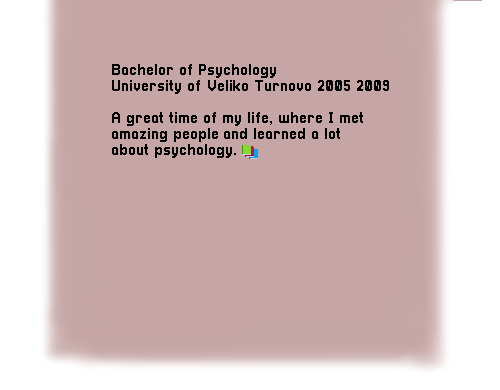
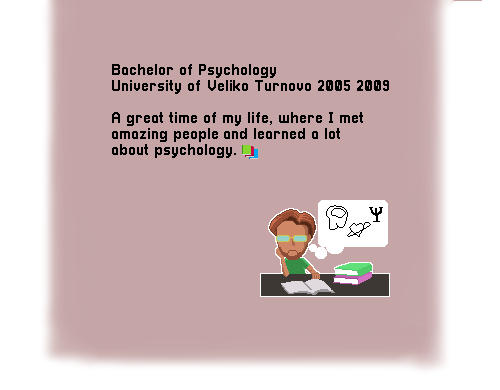
added many things, soon it will be completed

Changed region(s): [[0.51, 0.4923, 0.78, 0.7692]]

diff --git a/src/Handlers/AnimationManager.java b/src/Handlers/AnimationManager.java
@@ -27,6 +27,8 @@ public class AnimationManager {
     Phase left;
     Phase right;
     Sound sound;
+    Sound music;
+    Phase currentlyDrawn;
 
     private boolean tutorialFading = false;
     public Player player;
@@ -42,6 +44,9 @@ public class AnimationManager {
         future = Assets.future;
         past = Assets.past;
         sound = Assets.sound;
+        music = Assets.music;
+        music.setFile();
+        music.loop();
     }
 
 
@@ -64,6 +69,7 @@ public class AnimationManager {
             phRight.picture.y = Config.INIT_MIDPIC_Y;
             phRight.textBox.x = phRight.picture.x + phRight.picture.sprites[0].getWidth() * Config.SCALE + Config.PIC_TEXTBOX_OFFSET * Config.SCALE;
             phRight.textBox.y = phRight.picture.y;
+
             //add x and y
         }
     }
@@ -91,13 +97,13 @@ public class AnimationManager {
         }
     }
 
-    public void playSF(Boolean loop){
+    public void playSound(Boolean loop){
         sound.setFile();
         if(!loop) sound.play();
         else sound.loop();
     }
 
-    public void stopSF(){
+    public void stopSound(){
         sound.stop();
     }
 
@@ -106,7 +112,7 @@ public class AnimationManager {
         if (player.state.name.equals("WALKING")) {
 
             if((sound.clip == null) || (!sound.clip.isActive())){
-                playSF( true);
+                playSound( true);
             }
 
 
@@ -145,7 +151,15 @@ public class AnimationManager {
             }
         } else if(player.state.name.equals("SITTING")){
             if(sound.clip.isRunning()){
-                stopSF();
+                stopSound();
+            }
+        }
+
+        if(!drawn.isEmpty()) {
+            if ((drawn.peekFirst().picture.x < Config.LEFT_BORDER_VISIBILITY) && (player.movedRight)) {
+                hideLeftAddRight();
+            } else if ((drawn.peekLast().picture.x > Config.RIGHT_BORDER_VISIBILITY) && (player.movedLeft)) {
+                hideRightAddLeft();
             }
         }
     }
@@ -153,10 +167,6 @@ public class AnimationManager {
 
     // run all animatable objects if they are active:
     public void draw(Graphics2D g2){
-
-        if (drawn.size() == 1){
-            System.out.println("Ouchie");
-        }
 
         // draw the BG
         if (backgroundImage != null){
@@ -181,14 +191,11 @@ public class AnimationManager {
                 backgroundAnimation.x = backgroundAnimation.x + width * Config.SCALE;
             }
 
-            //System.out.println("BG middle X is " + backgroundAnimation.x );
-            //System.out.println("Player X is " + player.x);
-
         } else {
             System.out.println("Warning: background is null, cannot draw.");
         }
 
-        // draw the rest
+        // draw the "tutorial"
 
         if (tutorial.active) {
             if ((player.x > Config.LEFT_BOUNDARY && player.x < Config.RIGHT_BOUNDARY) && !tutorialFading)
@@ -201,7 +208,8 @@ public class AnimationManager {
             tutorial.updateFrame();
         }
 
-        Phase currentlyDrawn;
+        // Draw the phases
+
         if(drawn.isEmpty()){                // add the first phase
             currentlyDrawn = future.pollFirst();
             if(currentlyDrawn != null) {
@@ -216,9 +224,8 @@ public class AnimationManager {
         if(!drawn.isEmpty()) {
 
             Phase phaseToDraw1 = drawn.peekFirst();
+
             int offset = phaseToDraw1.picture.x + phaseToDraw1.picture.sprites[0].getWidth() * Config.SCALE + Config.PIC_TEXTBOX_OFFSET + phaseToDraw1.textBox.sprites[0].getWidth() * Config.SCALE + Config.PIC_AREA_OFFSET;
-
-
 
             phaseToDraw1.picture.draw(g2, phaseToDraw1.picture.x, phaseToDraw1.picture.y, phaseToDraw1.picture.sprites[0].getWidth(), phaseToDraw1.picture.sprites[0].getHeight());
             phaseToDraw1.picture.updateFrame(); // in case the animation is dynamic this will animate it
@@ -237,24 +244,17 @@ public class AnimationManager {
 
             if (drawn.size() == 2){
 
-                if((drawn.peekFirst().picture.x < Config.LEFT_BORDER_VISIBILITY)&& (player.movedRight)){
-                    hideLeftAddRight();
-                } else if((drawn.peekLast().picture.x > Config.RIGHT_BORDER_VISIBILITY) && (player.movedLeft)) {
-                    hideRightAddLeft();
-                }
-
                 Phase phaseToDraw2 = drawn.peekLast();
                 if (phaseToDraw2 != null) {
-                    phaseToDraw1 = drawn.peekFirst();
+                    //phaseToDraw1 = drawn.peekFirst();
 
                     phaseToDraw2.picture.draw(g2, phaseToDraw2.picture.x, phaseToDraw2.picture.y, phaseToDraw2.picture.sprites[0].getWidth(), phaseToDraw2.picture.sprites[0].getHeight());
                     phaseToDraw2.picture.updateFrame(); // in case the animation is dynamic this will animate it
                     phaseToDraw2.textBox.draw(g2, phaseToDraw2.textBox.x + Config.PIC_TEXTBOX_OFFSET, phaseToDraw2.textBox.y, phaseToDraw2.textBox.sprites[0].getWidth(), phaseToDraw2.textBox.sprites[0].getHeight());
 
-                    //System.out.println("PIC 1 x is: " + phaseToDraw1.picture.x);
+
                 }
             }
-
         }
     }
 

diff --git a/src/Handlers/Assets.java b/src/Handlers/Assets.java
@@ -4,6 +4,7 @@ import animations.Animation;
 import animations.Phase;
 import main.Config;
 import main.Sound;
+import main.UI;
 
 import javax.imageio.ImageIO;
 import java.awt.image.BufferedImage;
@@ -18,18 +19,31 @@ public class Assets{
     public static BufferedImage backgroundImage;
     public static Animation backgroundAnimation;
     public static BufferedImage[] tutorialSprites;
+
     public static Animation tutorial;
-    public static Phase[] phases = new Phase[8];
+    public static Phase[] phases = new Phase[9];
     public static Deque<Phase> future = new ArrayDeque<>();
     public static Deque<Phase> past = new ArrayDeque<>();
+
     public static Sound sound;
     public static Sound music;
+
+    public static UI menu;
+    public static BufferedImage[] menuSprites;
 
     public static void load(float speed) {
 
         tutorialSprites = new BufferedImage[2];
+        menuSprites = new BufferedImage[2];
 
         try {
+
+                BufferedImage UI1 = ImageIO.read(Objects.requireNonNull(Assets.class.getResourceAsStream("/UI/UI1.png")));
+                BufferedImage UI2 = ImageIO.read(Objects.requireNonNull(Assets.class.getResourceAsStream("/UI/UI2.png")));
+                menuSprites[0] = UI1;
+                menuSprites[1] = UI2;
+                menu = new UI(menuSprites);
+
                 backgroundImage = ImageIO.read(Objects.requireNonNull(Assets.class.getResourceAsStream("/background/test-bg.png")));
 
                 backgroundAnimation = new Animation(backgroundImage, Config.INIT_BG_X, Config.INIT_BG_Y, speed);
@@ -37,6 +51,8 @@ public class Assets{
                 tutorialSprites[0] = ImageIO.read(Objects.requireNonNull(Assets.class.getResourceAsStream("/buttons/dir_buttons1.png")));
                 tutorialSprites[1] = ImageIO.read(Objects.requireNonNull(Assets.class.getResourceAsStream("/buttons/dir_buttons2.png")));
                 tutorial = new Animation(tutorialSprites, Config.tutorialX, Config.tutorialY, 0.13F); // these coordinates are always relative to the window
+
+
 
                 for(int i = 0; i < phases.length; i++){
                     Animation pictureAnimation;

diff --git a/src/animations/Animatable.java b/src/animations/Animatable.java
@@ -7,8 +7,6 @@ import java.awt.image.BufferedImage;
 
 abstract public  class Animatable {
 
-    public Animation[] frames;
-
     public int x;
     public int y;
     public float speed;
@@ -60,8 +58,6 @@ abstract public  class Animatable {
         BufferedImage image = sprites[currentFrame-1];
         int scale = Config.SCALE;
 
-
-
         Entity.Direction dir = Entity.Direction.RIGHT;
 
         if (image != null) {
@@ -71,15 +67,6 @@ abstract public  class Animatable {
         }
     }
 
-
-    // draw a given image only, with a given scale
-    public void draw(Graphics2D g2, BufferedImage image, int x, int y, int customScale){
-        if (image != null){
-            g2.drawImage(image, x + image.getWidth()* customScale , y, -image.getWidth() * customScale, image.getHeight() * customScale, null);
-        } else {
-            System.out.println("Warning: image is null, cannot draw.");
-        }
-    }
 
     //draw with fade effect
     public void draw(Graphics2D g2, int x, int y, int width, int height, boolean fadeOut){

diff --git a/src/Handlers/KeyHandler.java b/src/Handlers/KeyHandler.java
@@ -6,11 +6,14 @@ import java.awt.event.KeyListener;
 public class KeyHandler implements KeyListener {
 
     public boolean upPressed, downPressed, leftPressed, rightPressed;
+    public boolean EnterPressed;
 
     @Override
     public void keyTyped(KeyEvent e) {
 
     }
+
+
 
     @Override
     public void keyPressed(KeyEvent e) {
@@ -29,6 +32,9 @@ public class KeyHandler implements KeyListener {
         if((code == KeyEvent.VK_D) || (code == KeyEvent.VK_RIGHT)){
             rightPressed = true;
         }
+
+        //TODO
+        //if((code == KeyEvent.VK_ENTER) && )
     }
 
     @Override

diff --git a/src/main/GamePanel.java b/src/main/GamePanel.java
@@ -22,6 +22,7 @@ public class GamePanel extends JPanel implements Runnable {
     Thread gameThread;
     Player player = new Player(this, keyH);
     AnimationManager anManager = new AnimationManager(this, player);
+    UI menu;
 
 
     public GamePanel() {
@@ -30,6 +31,7 @@ public class GamePanel extends JPanel implements Runnable {
         this.setDoubleBuffered(true);
         this.addKeyListener(keyH);
         this.setFocusable(true);
+        this.menu = Assets.menu;
     }
 
     public void startGameThread() {

diff --git a/src/main/UI.java b/src/main/UI.java
@@ -1,0 +1,25 @@
+package main;
+
+
+import Handlers.Assets;
+import animations.Animatable;
+
+import java.awt.image.BufferedImage;
+
+public class UI extends Animatable {
+
+    Boolean selected = false;
+    public Sound selectSound = Assets.sound;
+    public Sound changeValueSound = Assets.sound;
+
+    public UI(BufferedImage[] sprites){
+        this.sprites = sprites;
+    }
+
+    public void display(){
+
+
+
+    }
+
+}

diff --git a/src/main/Config.java b/src/main/Config.java
@@ -11,7 +11,7 @@ import java.util.Objects;
 
 public final class Config {
 
-    public static final int SCALE = 2;
+    public static final int SCALE = 1;
 
     public static final int screenWidth = 1000;
     public static final int screenHeight = 500;

diff --git a/src/animations/Phase.java b/src/animations/Phase.java
@@ -11,4 +11,11 @@ public class Phase {
         this.picture = pic;
         this.textBox = txt;
     }
+//todo this needs to have it's own draw function
+//    public void draw(){
+//
+//
+//
+//    }
+
 }
